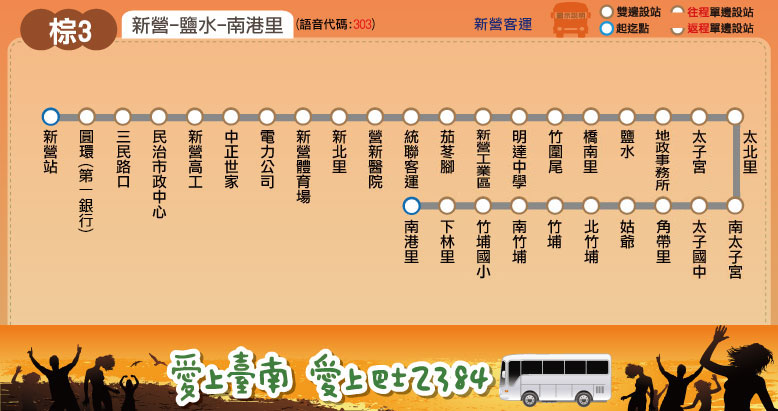
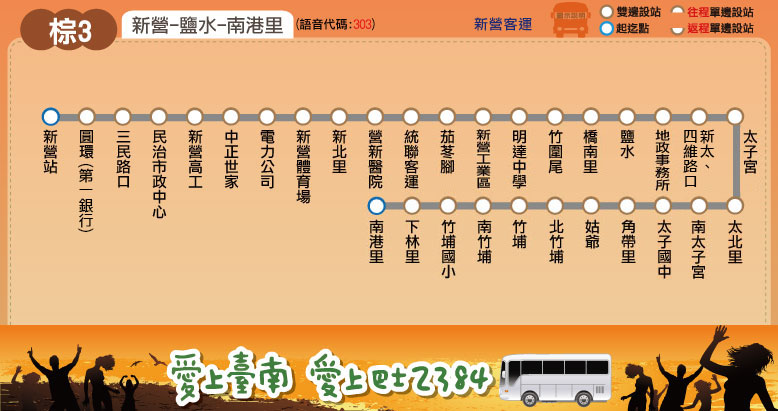
新增站位：棕3(增「新太、四維路口」)、黃11-1(增「科尾」、「水井」、「公厝」)

Changed region(s): [[0.4627, 0.4672, 0.9563, 0.6715], [0.8638, 0.292, 0.9254, 0.4672], [0.9563, 0.3212, 0.9871, 0.438]]

diff --git a/route/fare_and_time/yellow_11_1.js b/route/fare_and_time/yellow_11_1.js
@@ -1,23 +1,20 @@
 yellow_11_1_interval_name = ["白河","東山","大客","武嶺","番子嶺","斑芝<br />花坑","東原","瓦厝","崎腳","青山","北寮","李子園","檳榔宅","二坑埔","南寮口"];//"崎腳","瓦厝","東原"];
 yellow_11_1_interval_stop = [
 ["白河站","安養院"], // 白河
-["東山加油站","民眾服務社","北東山","東山"], // 東山
-["嘉東","凹子腳","大客","下庄"], // 大客
-["科里","武嶺"], // 武嶺
-["番子嶺","開門橋"], // 番子嶺
-["萬應公廟","番子厝","斑芝花坑","斑花橋"], // 斑芝花坑
-["柿子寮","三塊厝","西東原","東原"], // 東原
-["瓦厝","東原國中"], // 瓦厝
-["竹圍埔","崎腳"], // 崎腳
-["店子前","下子店","青山","高原社區","墩子腳","李子園路口","碌砳埔"], // 青山
+["東山加油站","民眾服務社","北東山","東山","嘉東"], // 東山
+["凹子腳","大客","下庄","科里"], // 大客
+["武嶺"], // 武嶺
+["番子嶺"], // 番子嶺
+["開門橋","萬應公廟","番子厝","斑芝花坑","斑花橋","柿子寮"], // 斑芝花坑
+["三塊厝","西東原","東原"], // 東原
+["瓦厝","東原國中","竹圍埔"], // 瓦厝
+["崎腳"], // 崎腳
+["店子前","下子店","青山","高原社區","墩子腳","科尾","水井","公厝","李子園路口","碌砳埔"], // 青山
 ["北寮","中庄"], // 北寮
 ["穆聖","李子園小舖","李子園","福安宮","半山仔"], // 李子園
 ["檳榔宅"], // 檳榔宅
 ["二坑埔"], // 二坑埔
-["南寮口"], // 南寮口
-/*["店子前","崎腳","竹圍"],
-["東原國中","瓦厝"],
-["東原"]*/
+["南寮口"] // 南寮口
 ];
 yellow_11_1_fare = [
 [26],

diff --git a/route/fare_and_time/brown_3.js b/route/fare_and_time/brown_3.js
@@ -2,7 +2,7 @@ brown_3_interval_name = ["新營","茄苳腳","鹽水","太子宮","角帶里","
 brown_3_interval_stop = [ // 2015.09.14 checked
 ["新營站","圓環(第一銀行)","三民路口","民治市政中心","新營高工","中正世家","電力公司","新營體育場","新北里","營新醫院","統聯客運"], // 新營
 ["茄苳腳","新營工業區","明達中學"], // 茄苳腳
-["竹圍尾","橋南里","鹽水","地政事務所"], // 鹽水
+["竹圍尾","橋南里","鹽水","地政事務所","新太、四維路口"], // 鹽水
 ["太子宮","太北里","南太子宮","太子國中"], // 太子宮
 ["角帶里"], // 角帶里
 ["姑爺"], // 姑爺
